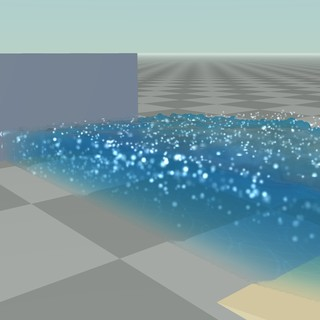
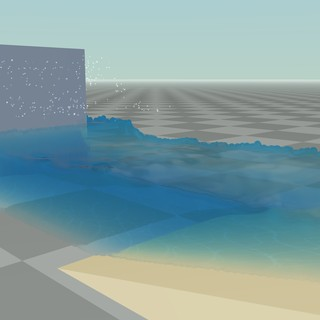
Sharpen wave-pool breakers, crest-focused foam, non-uniform foam sprites
Square the crest alignment in the SolverSPH diffuse spawn potential so
the kinetic term only fires for strongly outward-moving surface
particles (breaking lips, splashes); back-of-wave surfaces no longer
shed foam. Match Flex diffuse dynamics defaults (buoyancy ~1.0,
moderate drag) so spawned foam rises to the free surface and rides it
instead of being entrained underwater and hidden.

Scale foam sprites non-uniformly Flex-style: fast spray stretches
along its velocity (lowered stretch threshold and per-type gains so
foam-class particles actually elongate), and settled surface foam
flattens into pancakes along the screen projection of world-up,
reading as flat patches at grazing angles and round dots from above.

Rework the wave pool for breaking surf: finer fluid (28 mm spacing,
~77k particles), roughly half the previous damping (XSPH, dissipation,
free-surface drag, friction, cohesion), a taller stronger paddle, and
a longer steeper beach starting mid-pool so waves shoal and spill with
whitewater at the front face and run-up edge. Drop spray adhesion so
foam no longer sticks to the paddle, and steepen the beach above the
boundary wall so run-up cannot pool in the far corner.

diff --git a/newton/examples/fluid/example_fluid_sph_wave_pool.py b/newton/examples/fluid/example_fluid_sph_wave_pool.py
@@ -412,29 +412,29 @@ class Example:
             help="Capture the SPH substeps in a CUDA graph.",
         )
 
-        parser.add_argument("--dim-x", type=int, default=96)
-        parser.add_argument("--dim-y", type=int, default=40)
-        parser.add_argument("--dim-z", type=int, default=12)
-        parser.add_argument("--spacing", type=float, default=0.034)
-        parser.add_argument("--radius", type=float, default=0.0255)
+        parser.add_argument("--dim-x", type=int, default=115)
+        parser.add_argument("--dim-y", type=int, default=44)
+        parser.add_argument("--dim-z", type=int, default=14)
+        parser.add_argument("--spacing", type=float, default=0.028)
+        parser.add_argument("--radius", type=float, default=0.021)
         parser.add_argument("--jitter", type=float, default=0.0015)
-        parser.add_argument("--emit-lower", type=float, nargs=3, default=(-2.16, -0.66, 0.05))
+        parser.add_argument("--emit-lower", type=float, nargs=3, default=(-1.98, -0.66, 0.05))
 
-        parser.add_argument("--smoothing-length", type=float, default=0.0731)
+        parser.add_argument("--smoothing-length", type=float, default=0.0602)
         parser.add_argument("--rest-density", type=float, default=460.0)
         parser.add_argument("--viscosity", type=float, default=0.010)
-        parser.add_argument("--particle-friction", type=float, default=0.05)
-        parser.add_argument("--cohesion", type=float, default=0.030)
+        parser.add_argument("--particle-friction", type=float, default=0.02)
+        parser.add_argument("--cohesion", type=float, default=0.020)
         parser.add_argument("--surface-tension", type=float, default=0.0000006)
-        parser.add_argument("--xsph-strength", type=float, default=0.10)
-        parser.add_argument("--free-surface-drag", type=float, default=0.10)
-        parser.add_argument("--dissipation", type=float, default=0.20)
-        parser.add_argument("--velocity-damping", type=float, default=0.015)
+        parser.add_argument("--xsph-strength", type=float, default=0.04)
+        parser.add_argument("--free-surface-drag", type=float, default=0.05)
+        parser.add_argument("--dissipation", type=float, default=0.10)
+        parser.add_argument("--velocity-damping", type=float, default=0.010)
         parser.add_argument("--sleep-threshold", type=float, default=0.0)
         parser.add_argument("--boundary-damping", type=float, default=0.10)
         parser.add_argument("--shape-friction", type=float, default=0.30)
-        parser.add_argument("--shape-adhesion", type=float, default=0.10)
-        parser.add_argument("--max-velocity", type=float, default=5.0)
+        parser.add_argument("--shape-adhesion", type=float, default=0.0)
+        parser.add_argument("--max-velocity", type=float, default=6.5)
         parser.add_argument("--max-acceleration", type=float, default=90.0)
         parser.add_argument("--pbf-iterations", type=int, default=3)
         parser.add_argument("--pbf-relaxation", type=float, default=0.60)
@@ -444,22 +444,22 @@ class Example:
         parser.add_argument("--bounds-upper", type=float, nargs=3, default=(2.60, 0.72, 1.8))
         parser.add_argument("--ground-color", type=float, nargs=3, default=(0.54, 0.55, 0.53))
 
-        parser.add_argument("--paddle-x", type=float, default=-2.16)
-        parser.add_argument("--paddle-height", type=float, default=0.42)
-        parser.add_argument("--paddle-amplitude", type=float, default=0.17)
+        parser.add_argument("--paddle-x", type=float, default=-2.20)
+        parser.add_argument("--paddle-height", type=float, default=0.55)
+        parser.add_argument("--paddle-amplitude", type=float, default=0.26)
         parser.add_argument("--paddle-period", type=float, default=2.0)
-        parser.add_argument("--beach-start", type=float, default=0.55)
-        parser.add_argument("--beach-length", type=float, default=2.3)
-        parser.add_argument("--beach-angle-deg", type=float, default=11.0)
+        parser.add_argument("--beach-start", type=float, default=0.20)
+        parser.add_argument("--beach-length", type=float, default=2.6)
+        parser.add_argument("--beach-angle-deg", type=float, default=13.0)
 
-        parser.add_argument("--fluid-diffuse-max-particles", type=int, default=20000)
-        parser.add_argument("--fluid-diffuse-threshold", type=float, default=1.6)
+        parser.add_argument("--fluid-diffuse-max-particles", type=int, default=14000)
+        parser.add_argument("--fluid-diffuse-threshold", type=float, default=3.0)
         parser.add_argument("--fluid-diffuse-lifetime", type=float, default=1.8)
-        parser.add_argument("--fluid-diffuse-drag", type=float, default=0.92)
-        parser.add_argument("--fluid-diffuse-buoyancy", type=float, default=0.20)
+        parser.add_argument("--fluid-diffuse-drag", type=float, default=0.9)
+        parser.add_argument("--fluid-diffuse-buoyancy", type=float, default=1.0)
         parser.add_argument("--fluid-diffuse-ballistic", type=int, default=9)
         parser.add_argument("--fluid-diffuse-spawn-probability", type=float, default=0.30)
-        parser.add_argument("--fluid-diffuse-radius", type=float, default=0.014)
+        parser.add_argument("--fluid-diffuse-radius", type=float, default=0.012)
         parser.add_argument("--fluid-diffuse-alpha", type=float, default=0.45)
         parser.add_argument("--fluid-diffuse-motion-blur", type=float, default=0.40)
         parser.add_argument("--fluid-render-smoothing", type=float, default=0.45)
@@ -470,9 +470,9 @@ class Example:
         parser.add_argument("--environment-intensity", type=float, default=3.15)
         parser.add_argument("--exposure", type=float, default=1.08)
         parser.add_argument("--sun-direction", type=float, nargs=3, default=(0.78, -0.56, 0.34))
-        parser.add_argument("--camera-pos", type=float, nargs=3, default=(1.55, -2.05, 0.95))
-        parser.add_argument("--camera-pitch", type=float, default=-15.0)
-        parser.add_argument("--camera-yaw", type=float, default=140.0)
+        parser.add_argument("--camera-pos", type=float, nargs=3, default=(1.90, -1.95, 0.90))
+        parser.add_argument("--camera-pitch", type=float, default=-13.0)
+        parser.add_argument("--camera-yaw", type=float, default=136.0)
         return parser
 
 

diff --git a/newton/_src/viewer/gl/shaders.py b/newton/_src/viewer/gl/shaders.py
@@ -743,6 +743,7 @@ uniform mat4 projection;
 uniform float radius;
 uniform float motion_blur_scale;
 uniform float diffuse_expansion;
+uniform vec3 up_axis_view;
 
 out vec2 TexCoord;
 out float ParticleAlpha;
@@ -788,6 +789,19 @@ void main()
     vec3 up = vec3(0.0, base_radius * expansion, 0.0);
     vec3 right = vec3(base_radius * expansion, 0.0, 0.0);
     float stretch_fade = 1.0 / max(death_expansion * death_expansion, 1.0);
+
+    // Surface foam patches lie flat on the water: squash the sprite along the
+    // screen projection of world-up so foam reads as pancakes at grazing
+    // angles while staying round when seen from above.
+    vec2 up_screen = up_axis_view.xy;
+    float up_screen_len = length(up_screen);
+    float flatten = foam_density * clamp(up_screen_len * 1.4, 0.0, 1.0);
+    if (flatten > 1.0e-3 && up_screen_len > 1.0e-4) {
+        vec2 minor_dir = up_screen / up_screen_len;
+        float r = base_radius * expansion;
+        up = vec3(minor_dir, 0.0) * (r * (1.0 - 0.55 * flatten));
+        right = vec3(-minor_dir.y, minor_dir.x, 0.0) * (r * (1.0 + 0.45 * flatten));
+    }
 
     // Flex stretches diffuse sprites along their velocity, which makes foam
     // read as elongated streaks that follow the flow instead of round dots.
@@ -2005,6 +2019,7 @@ class FluidDiffuseShader(ShaderGL):
             self.loc_radius = self._get_uniform_location("radius")
             self.loc_motion_blur_scale = self._get_uniform_location("motion_blur_scale")
             self.loc_diffuse_expansion = self._get_uniform_location("diffuse_expansion")
+            self.loc_up_axis_view = self._get_uniform_location("up_axis_view")
             self.loc_diffuse_color = self._get_uniform_location("diffuse_color")
             self.loc_alpha = self._get_uniform_location("alpha")
             self.loc_scene_depth_texture = self._get_uniform_location("scene_depth_texture")
@@ -2028,6 +2043,7 @@ class FluidDiffuseShader(ShaderGL):
         radius: float,
         motion_blur_scale: float,
         diffuse_expansion: float,
+        up_axis_view: tuple[float, float, float],
         diffuse_color: tuple[float, float, float],
         alpha: float,
         scene_depth_unit: int,
@@ -2048,6 +2064,7 @@ class FluidDiffuseShader(ShaderGL):
             self._gl.glUniform1f(self.loc_radius, float(radius))
             self._gl.glUniform1f(self.loc_motion_blur_scale, float(motion_blur_scale))
             self._gl.glUniform1f(self.loc_diffuse_expansion, float(diffuse_expansion))
+            self._gl.glUniform3f(self.loc_up_axis_view, *up_axis_view)
             self._gl.glUniform3f(self.loc_diffuse_color, *diffuse_color)
             self._gl.glUniform1f(self.loc_alpha, float(alpha))
             self._gl.glUniform1i(self.loc_scene_depth_texture, scene_depth_unit)

diff --git a/newton/_src/viewer/gl/opengl.py b/newton/_src/viewer/gl/opengl.py
@@ -3302,6 +3302,9 @@ class RendererGL:
             projection_matrix = np.asarray(self._projection_matrix, dtype=np.float32).reshape(4, 4).transpose()
             inv_projection_matrix = np.linalg.inv(projection_matrix).transpose()
             sun_view = view_matrix[:3, :3] @ sun
+            up_world = np.zeros(3, dtype=np.float32)
+            up_world[int(self.camera.up_axis)] = 1.0
+            up_view = view_matrix[:3, :3] @ up_world
             for batch in active_batches:
                 batch.sort_for_view(self._view_matrix)
                 self._fluid_diffuse_shader.update(
@@ -3311,6 +3314,7 @@ class RendererGL:
                     radius=batch.radius,
                     motion_blur_scale=batch.motion_blur_scale,
                     diffuse_expansion=batch.expansion,
+                    up_axis_view=(float(up_view[0]), float(up_view[1]), float(up_view[2])),
                     diffuse_color=batch.color,
                     alpha=batch.alpha,
                     scene_depth_unit=0,

diff --git a/newton/examples/fluid/example_fluid_sph_interactive_tank.py b/newton/examples/fluid/example_fluid_sph_interactive_tank.py
@@ -1351,7 +1351,7 @@ class Example:
         parser.add_argument("--fluid-diffuse-threshold", type=float, default=0.55)
         parser.add_argument("--fluid-diffuse-lifetime", type=float, default=2.8)
         parser.add_argument("--fluid-diffuse-drag", type=float, default=0.92)
-        parser.add_argument("--fluid-diffuse-buoyancy", type=float, default=0.20)
+        parser.add_argument("--fluid-diffuse-buoyancy", type=float, default=0.9)
         parser.add_argument("--fluid-diffuse-ballistic", type=int, default=9)
         parser.add_argument("--fluid-diffuse-spawn-probability", type=float, default=0.45)
         parser.add_argument("--fluid-render-smoothing", type=float, default=0.45)

diff --git a/newton/_src/solvers/sph/kernels.py b/newton/_src/solvers/sph/kernels.py
@@ -1391,7 +1391,7 @@ def spawn_sph_diffuse_particles(
     separation_len = wp.length(separation)
     if separation_len > EPS and speed > EPS:
         crest = wp.max(wp.dot(separation / separation_len, vi / speed), 0.0)
-    potential = divergence * (0.3 + 0.7 * crest) + 0.5 * speed_sq * crest
+    potential = divergence * (0.3 + 0.7 * crest) + 0.5 * speed_sq * crest * crest
     threshold = wp.max(diffuse_threshold, EPS)
     if potential <= threshold:
         return

diff --git a/CHANGELOG.md b/CHANGELOG.md
@@ -102,7 +102,7 @@
 - Fix `SensorTiledCamera` not rendering heightfield (`HFIELD`) shapes, which were missing from the render BVH. Heightfields are now rendered through the existing mesh path (they are triangulated `wp.Mesh` shapes), which also resolves a tiled-camera render-performance regression caused by the unused heightfield branch lowering the render kernel's GPU occupancy.
 - Fix `eval_fk()` overwriting VBD-simulated `JointType.CABLE` body poses.
 - Fix the interactive SPH tank example to apply fluid-shape feedback to the rigid integration step and add buoyancy torque so floating boxes can rotate under water and picking interaction.
-- Fix ViewerGL diffuse foam/spray particles never rendering: the diffuse fragment shader reconstructed scene depth with a mismatched matrix convention, so every sprite was discarded as occluded; splash spray and whitewater foam are now visible. `SolverSPH` diffuse spawning now uses a trapped-air/wave-crest potential (separating relative motion weighted by velocity-surface alignment) instead of raw kinetic energy, so foam forms at breaking crests, splashes, and beach run-up fronts rather than inside fast bulk flow, and foam sprites stretch along their velocity Flex-style. Underwater shadows and long view paths through water keep an in-scattered ambient floor instead of fading to black at pool edges
+- Fix ViewerGL diffuse foam/spray particles never rendering: the diffuse fragment shader reconstructed scene depth with a mismatched matrix convention, so every sprite was discarded as occluded; splash spray and whitewater foam are now visible. `SolverSPH` diffuse spawning now uses a trapped-air/wave-crest potential (separating relative motion weighted by velocity-surface alignment) instead of raw kinetic energy, so foam forms at breaking crests, splashes, and beach run-up fronts rather than inside fast bulk flow or on the back face of waves, and foam sprites scale non-uniformly Flex-style: fast spray stretches along its velocity while settled surface foam flattens into pancakes along the screen projection of world-up. Diffuse buoyancy/drag defaults follow Flex (buoyancy ~1) so foam rises to the surface instead of being entrained underwater. Underwater shadows and long view paths through water keep an in-scattered ambient floor instead of fading to black at pool edges
 - Fix hydroelastic SDF contact surfaces dropping the central region under deep interpenetration. The broadphase used to skip subgrids whose centers were deeper than the SDF narrow band, leaving a hole in the contact patch when overlap exceeded the narrow-band thickness. Broadphase now visits every subgrid in the SDF coarse grid (block coordinates are derived arithmetically from per-shape SDF coarse-texture dimensions); sampling at far-inside locations is correct because the coarse SDF is dense and accurate everywhere. On-disk SDF caches written by earlier versions are transparently re-cooked on first load (`_sdf_cache.CACHE_FORMAT_VERSION` bumped to `2`)
 - Fix `SolverXPBD` `body_parent_f` reporting to include `Control.joint_f` contributions and accumulate multiple inbound joint contributions, matching the `SolverMuJoCo` and `SolverFeatherstone` convention.
 - Fix MJCF `xyaxes` parsing to treat the second vector as Y and derive Z from X cross Y.
